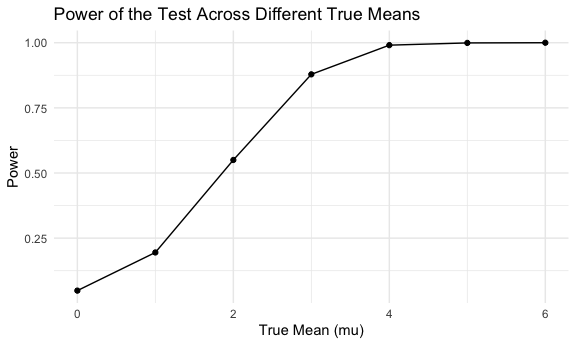
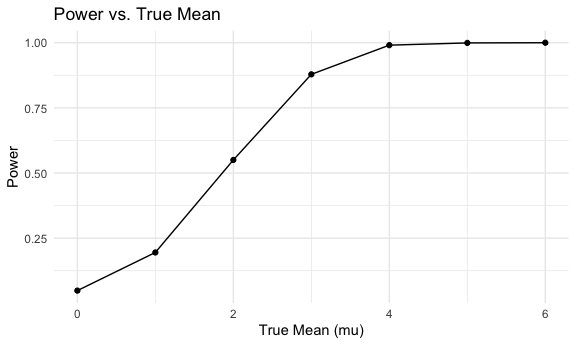
Plot: Average estimate of mu

Changed region(s): [[0.1875, 0.0, 0.75, 0.058]]

diff --git a/p8105_hw5_yw3996.md b/p8105_hw5_yw3996.md
@@ -176,6 +176,7 @@ clean_arm_dataset |>
 ```
 
 <img src="p8105_hw5_yw3996_files/figure-gfm/unnamed-chunk-9-1.png" width="90%" />
+
 In the experimental group, subjects generally experienced an increase in
 arm measurements over the 8-week period, although the timing and extent
 of these changes varied among individuals. Conversely, in the control
@@ -212,41 +213,65 @@ simulation_results = map_dfr(mu_values, function(mu) {
 Plot: Proportion of times the null is rejected (power of the test)
 
 ``` r
-power_plot = simulation_results |>
+# create power_results dataset
+power_results <- simulation_results |>
   group_by(mu) |>
-  summarize(power = mean(reject_null)) |>
+  summarise(power = mean(reject_null), 
+            avg_mu_hat = mean(estimate), 
+            avg_mu_hat_rejected = mean(estimate[reject_null]))
+
+#plotting
+power_plot = power_results |>
   ggplot(aes(x = mu, y = power)) +
-  geom_line() +
   geom_point() +
-  labs(title = "Power of the Test Across Different True Means", 
-       x = "True Mean (mu)", y = "Power")
+  geom_line() +
+  labs(title = "Power vs. True Mean", x = "True Mean (mu)", y = "Power")
 
 power_plot
 ```
 
 <img src="p8105_hw5_yw3996_files/figure-gfm/unnamed-chunk-11-1.png" width="90%" />
 
-Plot 2: Average estimate of mu
+There’s a positive relationship between effect size and power, with
+diminishing returns as the effect size becomes large. As the true mean
+$\mu$ increases away from 0, the power of the test also increases. The
+power increases rapidly as $\mu$ moves from 0 to 2, showing a steep
+curve. The rate of increase in power slows down as $\mu$ becomes larger
+(around 4 and above). This relationship is consistent with statistical
+theory: larger effect sizes make it easier to detect a true effect, thus
+increasing the power of the test.
+
+Plot: Average estimate of mu
 
 ``` r
-estimate_plot <- simulation_results |>
-  group_by(mu) |>
-  summarize(average_estimate = mean(estimate),
-            average_estimate_rejected = mean(estimate[reject_null], na.rm = TRUE)) |>
+estimate_plot <- power_results |>
   ggplot(aes(x = mu)) +
-  geom_line(aes(y = average_estimate, color = "Average Estimate")) +
-  geom_point(aes(y = average_estimate, color = "Average Estimate")) +
-  geom_line(aes(y = average_estimate_rejected, color = "Conditional Average Estimate")) +
-  geom_point(aes(y = average_estimate_rejected, color = "Conditional Average Estimate")) +
-  labs(title = "Average Estimate of Mu",
-       x = "True Mean (mu)", y = "Average Estimate") +
-  scale_color_manual(
-    values = c("Average Estimate" = "blue", "Conditional Average Estimate" = "red"),
-    labels = c("Average Estimate", "Conditional Average Estimate")
+  geom_point(aes(y = avg_mu_hat, color = "Average Estimate"), shape = 1) +  
+  geom_line(aes(y = avg_mu_hat, color = "Average Estimate")) +
+  geom_point(aes(y = avg_mu_hat_rejected, color = "Conditional Average Estimate"), shape = 2) +
+  geom_line(aes(y = avg_mu_hat_rejected, color = "Conditional Average Estimate"), linetype = "dashed") +
+  labs(
+    title = "Average Estimated Mean vs. True Mean",
+    x = "True Mean (mu)",
+    y = "Average Estimated Mean",
+    color = "mu_hat"
   ) +
+  scale_color_manual(
+    values = c("Average Estimate" = "blue", "Conditional Average Estimate" = "red")
+  ) +
+  theme_minimal() +
   theme(legend.position = "bottom")
 
 estimate_plot
 ```
 
 <img src="p8105_hw5_yw3996_files/figure-gfm/unnamed-chunk-12-1.png" width="90%" />
+
+the sample average of $\hat{\mu}$ across tests for which the null is
+rejected is not approximately equal to the true value of $\mu$,
+particularly for smaller true mean values. This is because the rejection
+of the null hypothesis is partially driven by the magnitude of
+$\hat{\mu}$, leading to an overestimate of the true mean when the null
+is rejected. As the true mean increases, the conditional estimates
+approach the line $\hat\mu=\mu$, since larger true means are easier to
+detect and less subject to the extremes of sampling variability.
